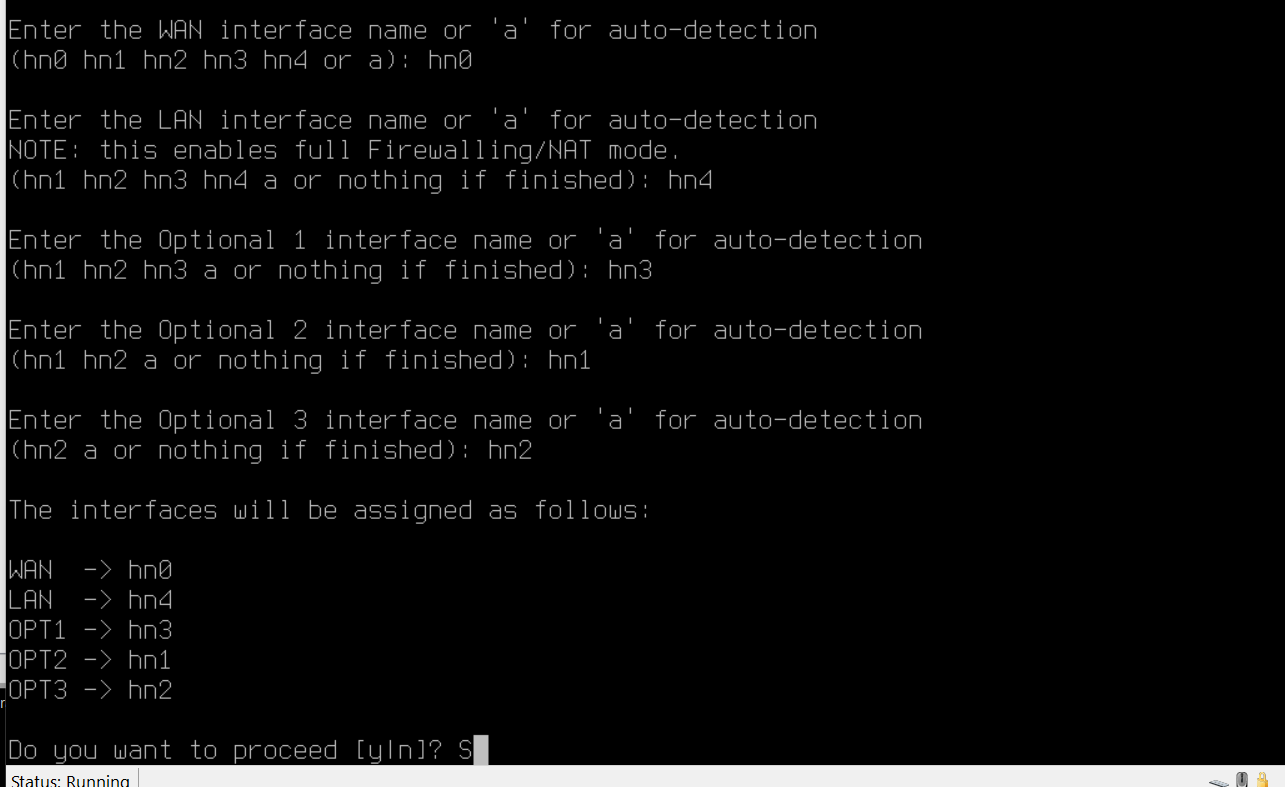
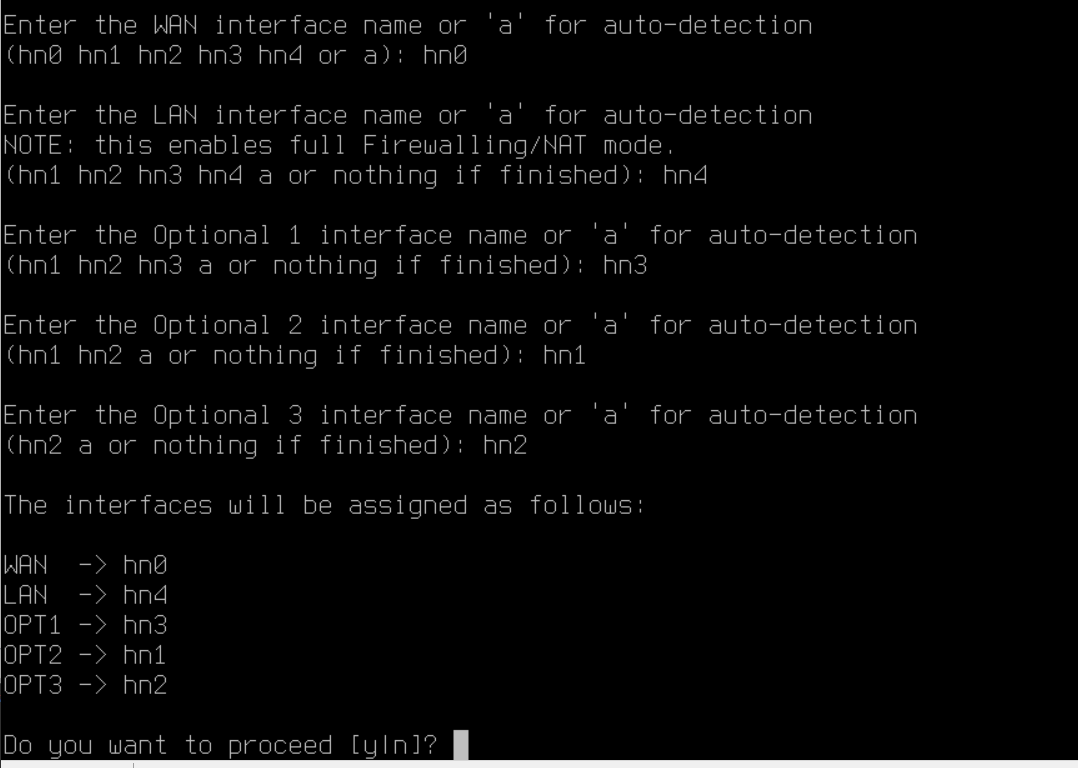
docs: replace interface summary with corrected screenshot and prompt guidance

Changed region(s): [[0.0, 0.0, 0.8571, 0.9062], [0.0, 0.9375, 1.0, 1.0], [0.6122, 0.2188, 0.6735, 0.25]]

diff --git a/docs/08-phase-02-network-segmentation.md b/docs/08-phase-02-network-segmentation.md
@@ -25,12 +25,12 @@ The NICs are detected even where link state is down. Peer VM connectivity and Hy
 ![P2-03: Detected interfaces and WAN assignment prompt](../evidence/phase-02/01-interface-assignment/03-interface-inventory-before-assignment.png)
 
 ## Checkpoint 3 — Assignment summary reviewed
-I entered WAN hn0, LAN hn4, OPT1 hn3, OPT2 hn1 and OPT3 hn2. The proposed assignment summary matches the five-zone plan. The screenshot is paused at the proceed prompt with an unsubmitted `S`; this is not evidence that the configuration has been applied.
+I entered WAN hn0, LAN hn4, OPT1 hn3, OPT2 hn1 and OPT3 hn2. The proposed assignment summary matches the five-zone plan. The corrected screenshot is paused at the proceed prompt with a blank input field; this is not evidence that the configuration has been applied. The earlier screenshot was superseded at the same evidence path to avoid duplicate publication.
 
 ![P2-04: Five-interface assignment summary before confirmation](../evidence/phase-02/01-interface-assignment/04-five-interface-assignment-summary.png)
 
 ## Next procedure — Confirmation pending
-Clear the unsubmitted `S` with Backspace, type `y`, and press Enter. Wait for configuration processing to finish, then record the resulting console menu and interface list. Verify WAN hn0 and CORP/LAN hn4 still have their expected addressing before setting IP addresses on the OPT interfaces.
+At the blank proceed prompt, type `y` and press Enter. Wait for configuration processing to finish, then record the resulting console menu and interface list. Verify WAN hn0 and CORP/LAN hn4 still have their expected addressing before setting IP addresses on the OPT interfaces.
 
 ## Remaining validation
 - Confirm saved WAN/LAN/OPT assignments.
